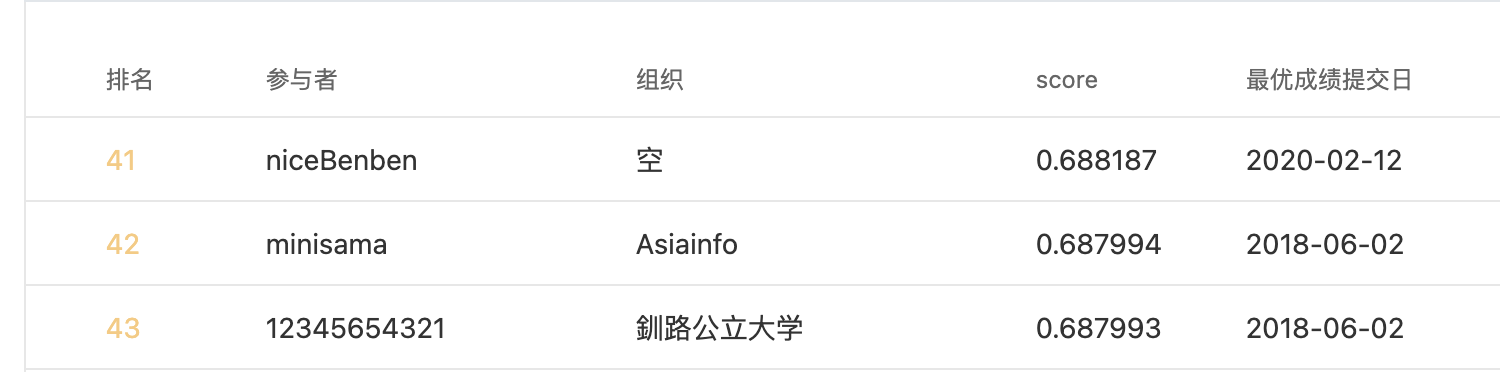
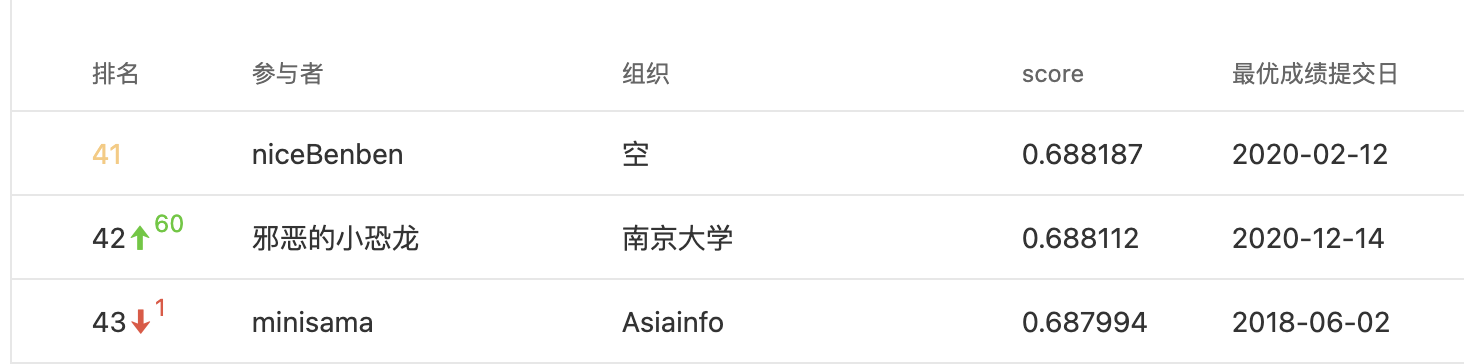
12.22commit

diff --git a/README.md b/README.md
@@ -7,6 +7,7 @@
 * [x] 12.10更新：项目4使用自己的算法参加比赛，成绩0.6826410，实时排名100
 * [x] 12.12更新：项目4用spark做完，实验报告写完，成绩0.6826410，实时排名101
 * [x] 12.14更新：成绩0.6881123，排名42
+* [x] 12.22更新：成绩0.6901808，排名34
 * [ ] 下周目标：提高排名
 
 ---
@@ -538,9 +539,10 @@ model.fit(
 
 3. 成绩总结
 
-   <img src="截图/6.png" alt="image-20201214094947920" style="zoom:50%;" />
+   <img src="/Users/Yufeng1/Desktop/demo/Project4/截图/8.png" alt="image-20201222161843193" style="zoom:50%;" />
 
-<img src="截图/7.png" alt="image-20201214095039896" style="zoom: 43%;" />
+![image-20201222161935104](/Users/Yufeng1/Desktop/demo/Project4/截图/9.png)
+
 
 
 五、问题总结
